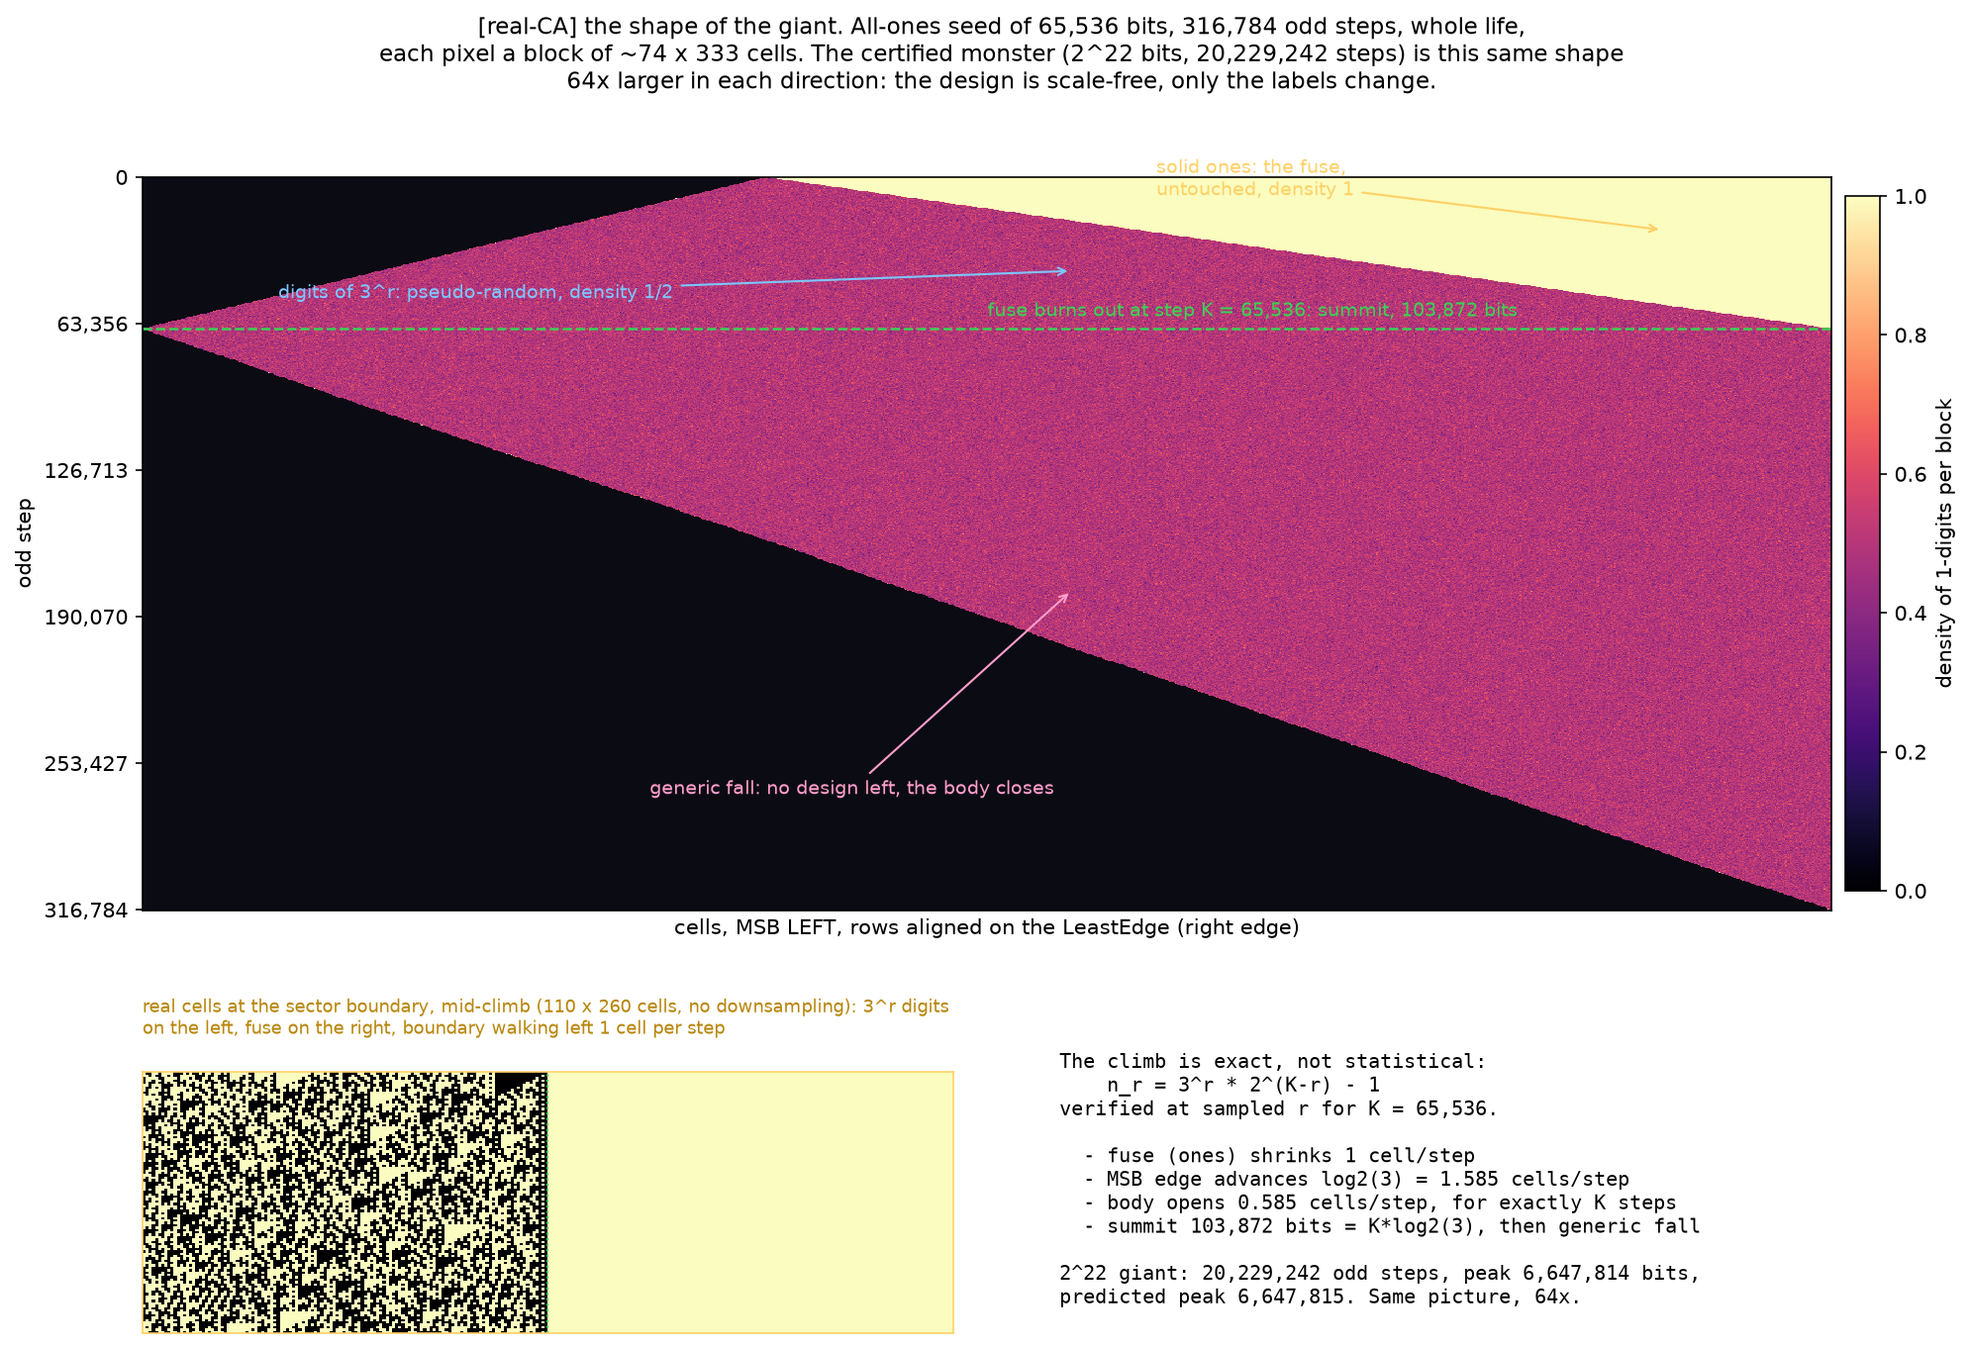
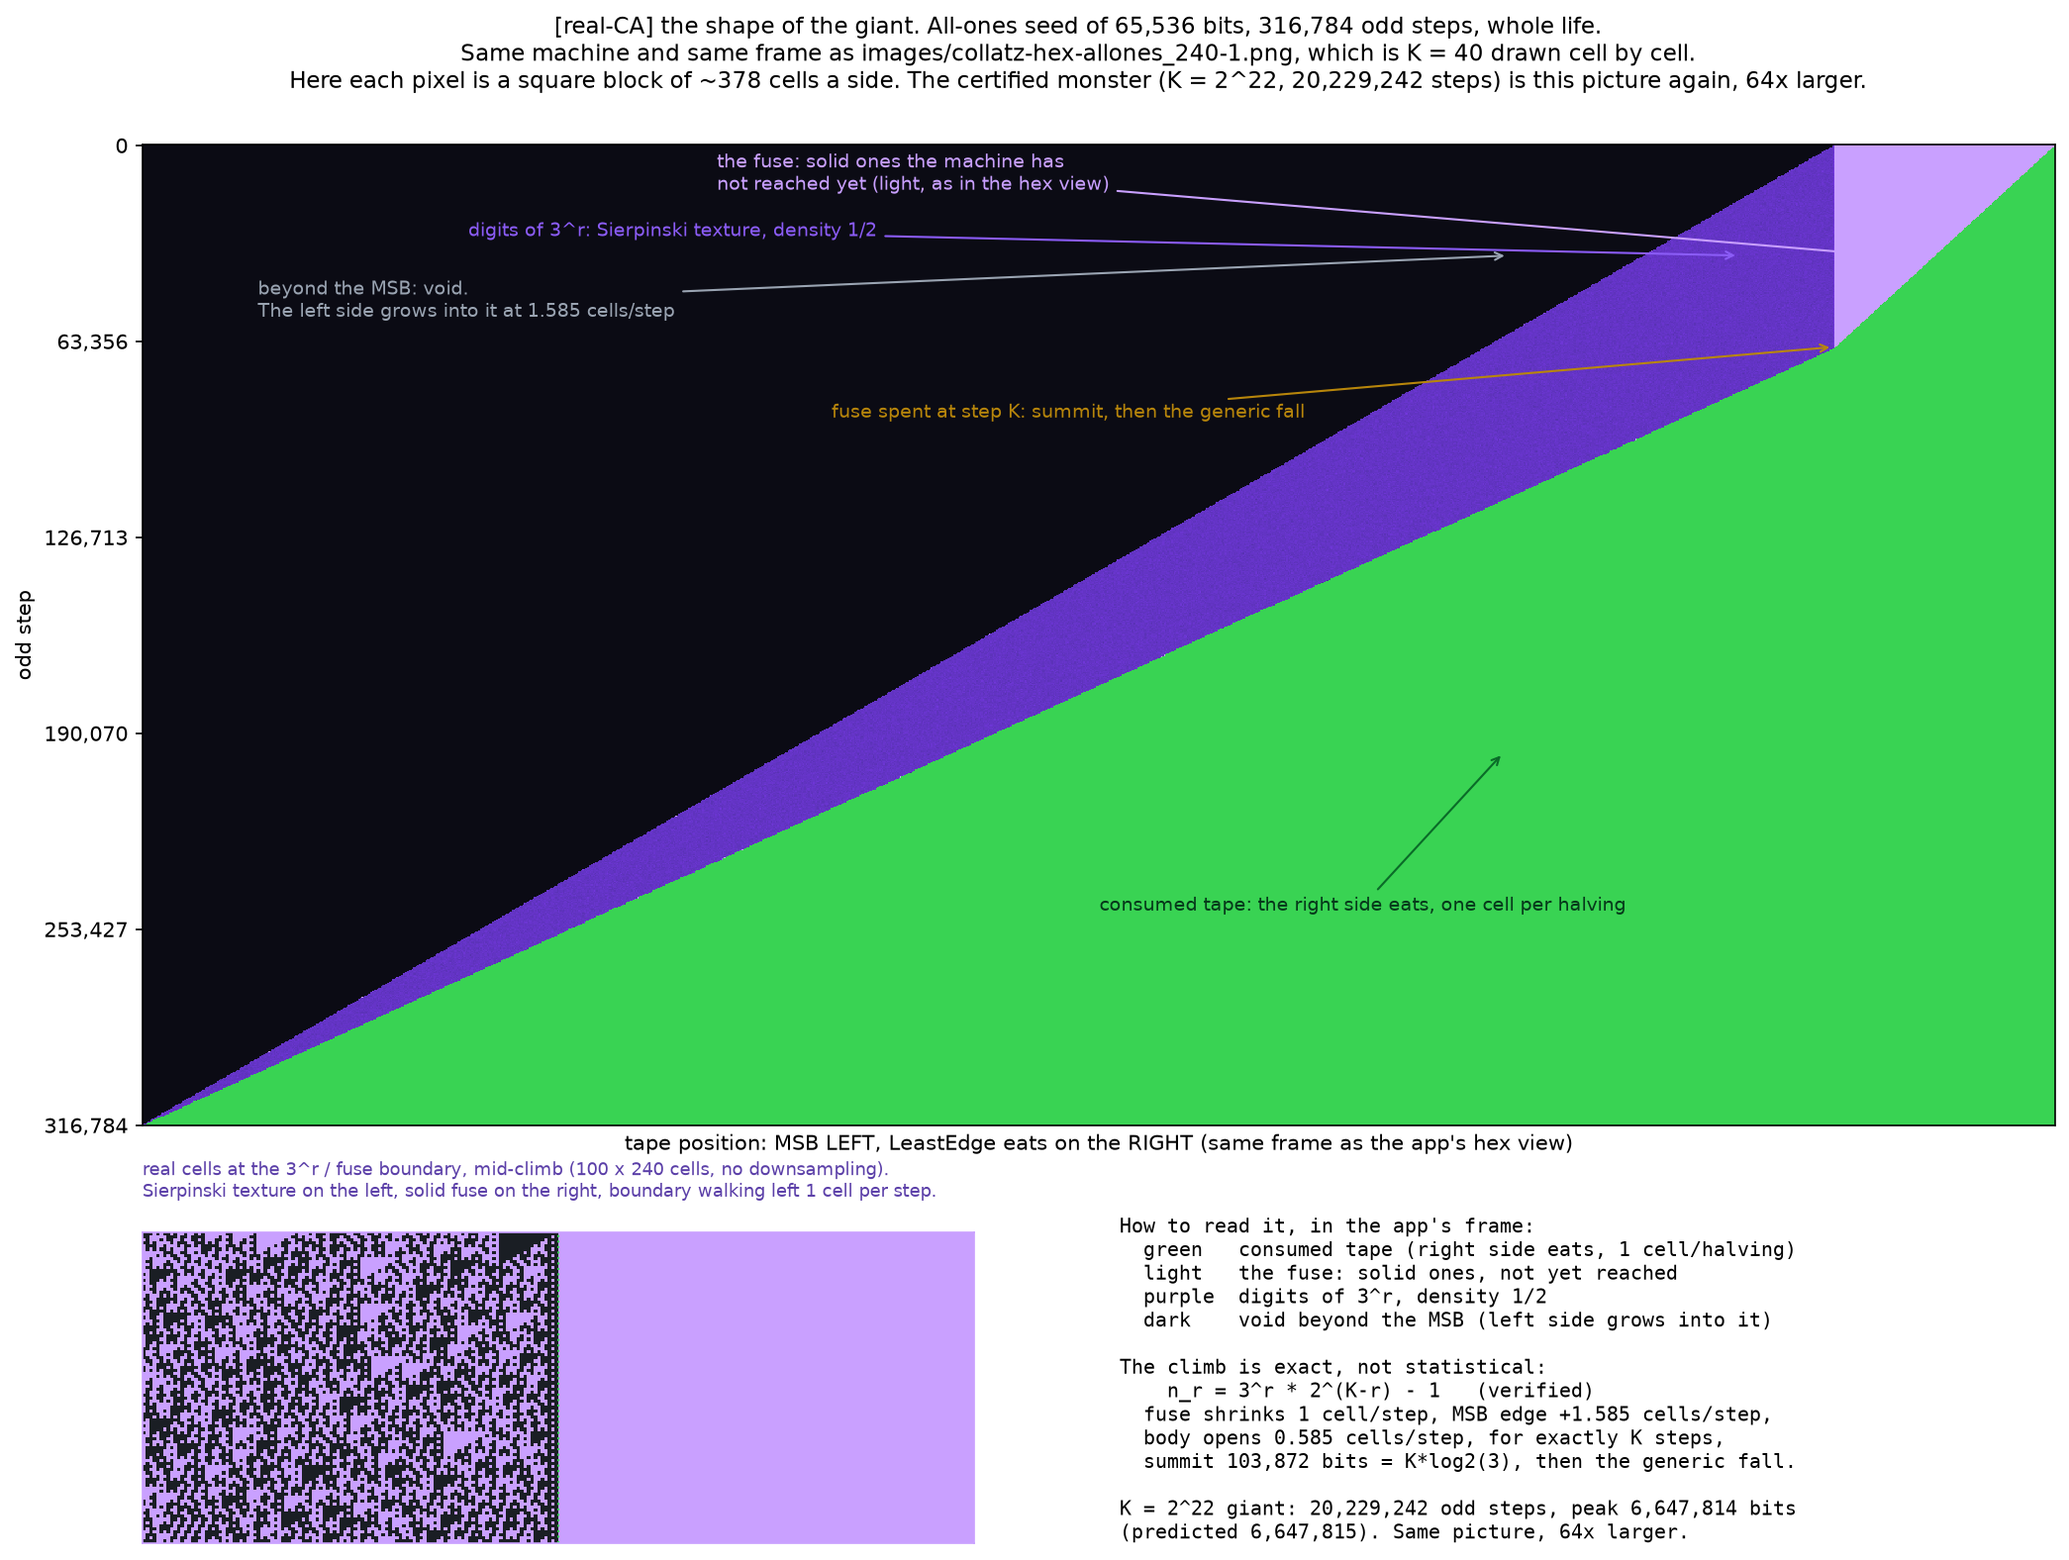
Re-render the giant in the app's frame
The first version had three rendering bugs: consumed tape and beyond-MSB void
were both painted black (the app's two clearest landmarks), the aspect was
stretched (74x333-cell blocks drawn square), and the co-moving frame made the
fuse appear to shrink from the wrong end.

Now: tape coordinates as in the app, app colours (green LeastEdge sea, dark
void, purple body, light fuse), square blocks, labels anchored on computed
cells. Matches images/collatz-hex-allones_240-1.png, which is the same
machine at K = 40 drawn cell by cell.

Claude-Session: https://claude.ai/code/session_01F26mXdGEZsrpsC6Hi8qHHd

diff --git a/findings.html b/findings.html
@@ -554,7 +554,9 @@
          alt="Density map of the whole life of an all-ones seed, showing two sectors during the climb">
     <figcaption>The giant is too large to draw cell by cell (about 7&times;10<sup>13</sup> cells),
       but its design is scale-free, so the same machine at 1/64 the linear size is the same picture.
-      The climb has a closed form, verified rather than assumed:
+      Same frame and colours as the hex view above: green is tape already consumed by the LeastEdge
+      on the right, dark is the void beyond the MSB on the left, and each pixel is a square block of
+      378 cells a side. The climb has a closed form, verified rather than assumed:
       <code>n<sub>r</sub> = 3<sup>r</sup>&thinsp;2<sup>K&minus;r</sup> &minus; 1</code>. That is two
       sectors: the digits of <code>3<sup>r</sup></code> on the left (mottled, density 1/2) and the
       untouched fuse of solid ones on the right (density 1), with the boundary walking left exactly

diff --git a/tools/collatz_giantshape.py b/tools/collatz_giantshape.py
@@ -1,28 +1,36 @@
 #!/usr/bin/env python3
-"""The shape of the giant. SCOPE: [real-CA] (LeastEdge frame of CA.CollatzStep).
+"""The shape of the giant, in the app's own frame. SCOPE: [real-CA].
 
-The certified monster (all-ones seed of 2^22 bits, 20,229,242 odd steps) is
-about 7e13 cells, so it cannot be drawn cell by cell. It does not need to be:
-the design is scale-free. An all-ones seed of ANY size runs the same program,
-so this renders the identical machine at 1/64 the linear size and states the
-scale on the figure.
+Compare images/collatz-hex-allones_240-1.png: that is this exact machine at
+K = 40, drawn cell by cell in the hex view. This is the same machine and the
+same frame at K = 2^16, drawn as blocks, so it is the same picture with more
+cells in it. The certified monster (K = 2^22, 20,229,242 odd steps) is again
+the same picture, 64x larger in each direction: the design is scale-free.
 
-What the climb is, exactly (verified here, not assumed):
+Frame = TAPE coordinates, as in the app. A cell keeps its position forever.
+Position p holds bit (p - S_r) of n_r, where S_r is the number of halvings
+done so far, so:
 
-    n_r = 3^r * 2^(K-r) - 1     for every step r of the climb
+    p <  S_r          consumed by the LeastEdge   -> green   (the right side eats)
+    S_r <= p < S_r+b  the number itself           -> purple textures
+    p >= S_r + b      beyond the MSB, void        -> dark    (the left side grows)
 
-so the body is two sectors: the binary digits of 3^r on the LEFT (a pseudo-
-random texture, density 1/2) and an untouched solid block of ones on the RIGHT
-(the fuse). The boundary between them marches left at exactly 1 cell per step
-(one halving each step), while the MSB edge advances at log2(3) = 1.585, so
-the body opens at 0.585 cells per step. The fuse burns out at step K, and the
-generic fall begins.
+MSB is on the LEFT, so the green consumed sea is on the RIGHT and the void is
+on the LEFT, exactly as in the hex render.
 
-Frame: rows aligned on the LeastEdge (the machine's own frame), MSB LEFT.
-Each pixel of the main panel is a block of many cells coloured by the density
-of 1-digits, which is an honest summary: the ones sector reads 1.0, the 3^r
-sector mottles around 0.5. The inset shows real cells at the sector boundary,
-no downsampling.
+Colours follow the app: void #0b0b14, 0-digit dark, 1-digit purple, solid ones
+light purple (in the hex view the fuse is "1 with carry"), LeastEdge green.
+Each pixel is a square block of cells (identical cells/pixel in both axes), so
+the geometry is true: no stretching.
+
+The climb has a closed form, verified here rather than asserted:
+
+    n_r = 3^r * 2^(K-r) - 1
+
+so the body is two sectors: digits of 3^r on the left (Sierpinski texture,
+density 1/2) and the untouched fuse of ones on the right (density 1). The
+boundary between them walks left 1 cell/step; the MSB edge advances 1.585
+cells/step; the body opens at 0.585 cells/step for exactly K steps.
 """
 import os
 import time
@@ -31,129 +39,157 @@ import numpy as np
 import matplotlib
 matplotlib.use("Agg")
 import matplotlib.pyplot as plt
+from matplotlib.colors import LinearSegmentedColormap
 
 IMG = os.path.join(os.path.dirname(os.path.abspath(__file__)), os.pardir, "images")
 
-K = 1 << 16          # seed bits: 1/64 the linear size of the 2^22 giant
-OUT_W, OUT_ROWS = 1400, 950
+K = 1 << 16                 # 1/64 the linear size of the 2^22 giant
+OUT_W = 1500
+
+VOID = np.array([0x0b, 0x0b, 0x14]) / 255.0
+GREEN = np.array([0x39, 0xd3, 0x53]) / 255.0
+BODY = LinearSegmentedColormap.from_list(
+    "body", ["#1a1e24", "#4c2f9e", "#7c3aed", "#c9a0ff"])   # 0 -> 1 density
 
 
-def bits_of(n, width=None):
+def bits_of(n):
     b = n.bit_length()
-    raw = np.unpackbits(np.frombuffer(n.to_bytes((b + 7) // 8, "little"),
-                                      dtype=np.uint8), bitorder="little")[:b]
-    return raw                      # index 0 = LSB
+    return np.unpackbits(np.frombuffer(n.to_bytes((b + 7) // 8, "little"),
+                                       dtype=np.uint8), bitorder="little")[:b]
 
 
 def main():
     t0 = time.time()
     n = (1 << K) - 1
-    hist = []
+    S = 0
+    hist = []                                   # (S_r, n_r)
     while n != 1:
-        hist.append(n)
+        hist.append((S, n))
         m = 3 * n + 1
         v = (m & -m).bit_length() - 1
         n = m >> v
-    hist.append(n)
+        S += v
+    hist.append((S, n))
     steps = len(hist) - 1
-    peak = max(x.bit_length() for x in hist)
-    print("K = %d bits, %d odd steps, peak %d bits, %.1fs"
-          % (K, steps, peak, time.time() - t0))
+    peak = max(x.bit_length() for _, x in hist)
+    span = max(s + x.bit_length() for s, x in hist)
+    print("K = %d, %d odd steps, peak %d bits, tape span %d cells, %.1fs"
+          % (K, steps, peak, span, time.time() - t0))
+    ok = all(hist[r][1] == 3**r * 2**(K - r) - 1 for r in range(0, K, K // 8))
+    print("climb closed form n_r = 3^r*2^(K-r)-1 verified at sampled r:", ok)
 
-    # verify the closed form of the climb rather than asserting it in prose
-    ok = all(hist[r] == 3**r * 2**(K - r) - 1 for r in range(0, K, K // 8))
-    print("climb closed form n_r = 3^r*2^(K-r)-1 holds at sampled r:", ok)
-    print("cells here: %.2e   cells in the 2^22 giant: %.2e"
-          % (steps * peak / 2, 20229242 * 6647814 / 2))
+    # square blocks: identical cells per pixel on both axes
+    OUT_ROWS = max(1, int(round(OUT_W * steps / span)))
+    cells_x = span / OUT_W
+    print("output %d x %d px, block %.0f x %.0f cells (square)"
+          % (OUT_W, OUT_ROWS, cells_x, steps / OUT_ROWS))
 
+    img = np.zeros((OUT_ROWS, OUT_W, 3))
+    img[:] = VOID
     rows = np.linspace(0, steps, OUT_ROWS).astype(int)
-    dens = np.full((OUT_ROWS, OUT_W), np.nan)
+
+    def col_of(p):                               # MSB (high p) on the LEFT
+        return ((span - 1 - p) * OUT_W) // span
+
     for out_r, r in enumerate(rows):
-        raw = bits_of(hist[r])
+        S_r, n_r = hist[r]
+        raw = bits_of(n_r)
         b = len(raw)
-        col = ((peak - 1 - np.arange(b)) * OUT_W) // peak   # MSB (high i) left
+        # consumed sea on the right
+        if S_r > 0:
+            img[out_r, col_of(S_r - 1):] = GREEN
+        # the number, coloured by density of 1-digits per block
+        col = col_of(S_r + np.arange(b))
         tot = np.bincount(col, weights=raw, minlength=OUT_W)
         cnt = np.bincount(col, minlength=OUT_W)
-        dens[out_r] = np.where(cnt > 0, tot / np.maximum(cnt, 1), np.nan)
+        hit = cnt > 0
+        img[out_r, hit] = BODY(tot[hit] / cnt[hit])[:, :3]
 
-    fig = plt.figure(figsize=(13, 9.5), dpi=150)
-    ax = fig.add_axes([0.055, 0.345, 0.90, 0.52])
-    cmap = plt.get_cmap("magma").copy()
-    cmap.set_bad("#0b0b14")
-    im = ax.imshow(dens, cmap=cmap, vmin=0.0, vmax=1.0, aspect="auto",
-                   interpolation="nearest")
+    fig = plt.figure(figsize=(14, 14 * OUT_ROWS / OUT_W + 3.2), dpi=150)
+    ax = fig.add_axes([0.05, 0.30, 0.92, 0.60])
+    ax.imshow(img, interpolation="nearest", aspect="auto")
+    # anchor every label on a computed cell, not a guessed fraction of the frame
     peak_row = int(K / steps * (OUT_ROWS - 1))
-    ax.axhline(peak_row, color="#39d353", lw=1.2, ls="--")
-    ax.text(OUT_W * 0.50, peak_row - 10,
-            "fuse burns out at step K = %s: summit, %s bits" % ("{:,}".format(K),
-                                                                "{:,}".format(peak)),
-            color="#39d353", fontsize=9, va="bottom", ha="left")
-    ax.annotate("solid ones: the fuse,\nuntouched, density 1",
-                xy=(OUT_W * 0.90, peak_row * 0.35),
-                xytext=(OUT_W * 0.60, peak_row * 0.12),
-                color="#ffd166", fontsize=9,
-                arrowprops=dict(arrowstyle="->", color="#ffd166"))
-    ax.annotate("digits of 3^r: pseudo-random, density 1/2",
-                xy=(OUT_W * 0.55, peak_row * 0.62),
-                xytext=(OUT_W * 0.08, peak_row * 0.80),
-                color="#7cc7ff", fontsize=9,
-                arrowprops=dict(arrowstyle="->", color="#7cc7ff"))
-    ax.annotate("generic fall: no design left, the body closes",
-                xy=(OUT_W * 0.55, peak_row + (OUT_ROWS - peak_row) * 0.45),
-                xytext=(OUT_W * 0.30, peak_row + (OUT_ROWS - peak_row) * 0.80),
-                color="#ff9ecb", fontsize=9,
-                arrowprops=dict(arrowstyle="->", color="#ff9ecb"))
-    ax.set_xlabel("cells, MSB LEFT, rows aligned on the LeastEdge (right edge)")
+    mid = int(peak_row * 0.55)                       # a row in mid-climb
+    S_m, n_m = hist[rows[mid]]
+    b_m = n_m.bit_length()
+    ax.annotate("the fuse: solid ones the machine has\nnot reached yet "
+                "(light, as in the hex view)",
+                xy=(col_of((S_m + K) // 2), mid),
+                xytext=(OUT_W * 0.30, peak_row * 0.22),
+                color="#c9a0ff", fontsize=9,
+                arrowprops=dict(arrowstyle="->", color="#c9a0ff"))
+    ax.annotate("digits of 3^r: Sierpinski texture, density 1/2",
+                xy=(col_of((K + S_m + b_m) // 2), mid),
+                xytext=(OUT_W * 0.17, peak_row * 0.45),
+                color="#8b5cf6", fontsize=9,
+                arrowprops=dict(arrowstyle="->", color="#8b5cf6"))
+    ax.annotate("beyond the MSB: void.\nThe left side grows into it at 1.585 cells/step",
+                xy=(col_of(min(span - 1, S_m + b_m + 40000)), mid),
+                xytext=(OUT_W * 0.06, peak_row * 0.85),
+                color="#9aa4b2", fontsize=9,
+                arrowprops=dict(arrowstyle="->", color="#9aa4b2"))
+    grow = int(OUT_ROWS * 0.62)
+    ax.annotate("consumed tape: the right side eats, one cell per halving",
+                xy=(col_of(hist[rows[grow]][0] // 2), grow),
+                xytext=(OUT_W * 0.50, OUT_ROWS * 0.78),
+                color="#06381a", fontsize=9,
+                arrowprops=dict(arrowstyle="->", color="#0a6b28"))
+    ax.annotate("fuse spent at step K: summit, then the generic fall",
+                xy=(col_of(K), peak_row), xytext=(OUT_W * 0.36, peak_row * 1.35),
+                color="#b8860b", fontsize=9,
+                arrowprops=dict(arrowstyle="->", color="#b8860b"))
+    ax.set_xlabel("tape position: MSB LEFT, LeastEdge eats on the RIGHT "
+                  "(same frame as the app's hex view)")
     ax.set_ylabel("odd step")
     ax.set_yticks(np.linspace(0, OUT_ROWS - 1, 6))
     ax.set_yticklabels(["{:,}".format(int(v)) for v in np.linspace(0, steps, 6)])
     ax.set_xticks([])
-    fig.colorbar(im, ax=ax, fraction=0.02, pad=0.008,
-                 label="density of 1-digits per block")
     fig.suptitle("[real-CA] the shape of the giant. All-ones seed of %s bits, "
-                 "%s odd steps, whole life,\neach pixel a block of ~%d x %d "
-                 "cells. The certified monster (2^22 bits, 20,229,242 steps) is "
-                 "this same shape\n64x larger in each direction: the design is "
-                 "scale-free, only the labels change."
-                 % ("{:,}".format(K), "{:,}".format(steps),
-                    peak // OUT_W, max(1, steps // OUT_ROWS)), fontsize=11)
+                 "%s odd steps, whole life.\nSame machine and same frame as "
+                 "images/collatz-hex-allones_240-1.png, which is K = 40 drawn "
+                 "cell by cell.\nHere each pixel is a square block of ~%d cells "
+                 "a side. The certified monster (K = 2^22, 20,229,242 steps) is "
+                 "this picture again, 64x larger."
+                 % ("{:,}".format(K), "{:,}".format(steps), cells_x), fontsize=11)
 
-    # inset: real cells straddling the sector boundary, mid-climb, no downsampling
+    # inset: real cells at the 3^r / fuse boundary, mid-climb, no downsampling
     r0 = K // 2
-    IH, IW = 110, 260
+    IH, IW = 100, 240
     tile = np.zeros((IH, IW), np.uint8)
     for k in range(IH):
-        raw = bits_of(hist[r0 + k])
-        edge = K - (r0 + k)                 # boundary: bits below it are the fuse
-        lo = edge - IW // 2
-        seg = raw[lo:lo + IW]
-        tile[k, :] = seg[::-1]              # MSB left
-    axi = fig.add_axes([0.055, 0.045, 0.42, 0.185])
-    axi.imshow(tile, cmap="magma", vmin=0, vmax=1, interpolation="nearest",
-               aspect="auto")
+        raw = bits_of(hist[r0 + k][1])
+        edge = K - (r0 + k)                     # bits below this are the fuse
+        seg = raw[edge - IW // 2: edge + IW // 2]
+        tile[k, :] = seg[::-1]                  # MSB left
+    axi = fig.add_axes([0.05, 0.045, 0.40, 0.19])
+    axi.imshow(tile, cmap=BODY, vmin=0, vmax=1, interpolation="nearest", aspect="auto")
     axi.axvline(IW / 2 - 0.5, color="#39d353", lw=1.0, ls=":")
     axi.set_xticks([]); axi.set_yticks([])
     for s in axi.spines.values():
-        s.set_color("#ffd166")
-    fig.text(0.055, 0.253,
-             "real cells at the sector boundary, mid-climb (%d x %d cells, no "
-             "downsampling): 3^r digits\non the left, fuse on the right, boundary "
-             "walking left 1 cell per step" % (IH, IW),
-             fontsize=8.5, color="#b8860b", va="bottom")
+        s.set_color("#c9a0ff")
+    fig.text(0.05, 0.253,
+             "real cells at the 3^r / fuse boundary, mid-climb (%d x %d cells, no "
+             "downsampling).\nSierpinski texture on the left, solid fuse on the "
+             "right, boundary walking left 1 cell per step." % (IH, IW),
+             fontsize=8.5, color="#5b3fa8", va="bottom")
 
-    axt = fig.add_axes([0.53, 0.045, 0.42, 0.20])
+    axt = fig.add_axes([0.52, 0.045, 0.45, 0.20])
     axt.axis("off")
     axt.text(0, 1.0,
+             "How to read it, in the app's frame:\n"
+             "  green   consumed tape (right side eats, 1 cell/halving)\n"
+             "  light   the fuse: solid ones, not yet reached\n"
+             "  purple  digits of 3^r, density 1/2\n"
+             "  dark    void beyond the MSB (left side grows into it)\n\n"
              "The climb is exact, not statistical:\n"
-             "    n_r = 3^r * 2^(K-r) - 1\n"
-             "verified at sampled r for K = %s.\n\n"
-             "  - fuse (ones) shrinks 1 cell/step\n"
-             "  - MSB edge advances log2(3) = 1.585 cells/step\n"
-             "  - body opens 0.585 cells/step, for exactly K steps\n"
-             "  - summit %s bits = K*log2(3), then generic fall\n\n"
-             "2^22 giant: 20,229,242 odd steps, peak 6,647,814 bits,\n"
-             "predicted peak 6,647,815. Same picture, 64x."
-             % ("{:,}".format(K), "{:,}".format(peak)),
+             "    n_r = 3^r * 2^(K-r) - 1   (verified)\n"
+             "  fuse shrinks 1 cell/step, MSB edge +1.585 cells/step,\n"
+             "  body opens 0.585 cells/step, for exactly K steps,\n"
+             "  summit %s bits = K*log2(3), then the generic fall.\n\n"
+             "K = 2^22 giant: 20,229,242 odd steps, peak 6,647,814 bits\n"
+             "(predicted 6,647,815). Same picture, 64x larger."
+             % "{:,}".format(peak),
              fontsize=9.5, va="top", family="monospace")
 
     out = os.path.join(IMG, "collatz-giant-shape.png")
